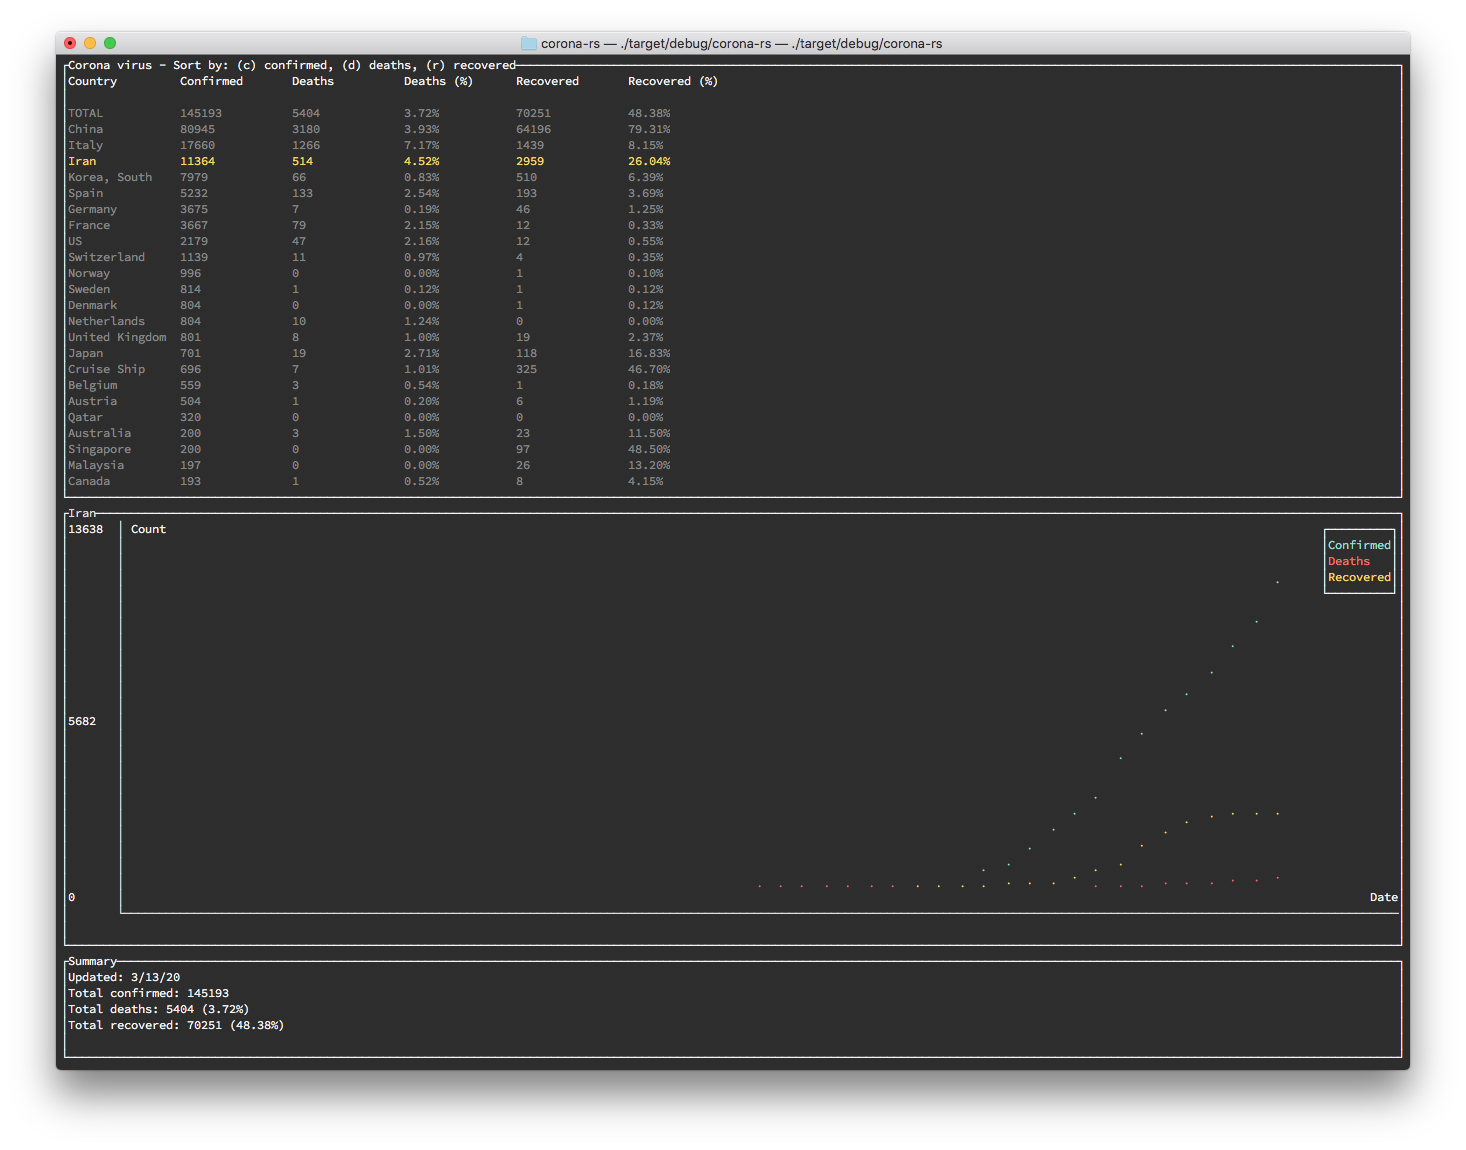
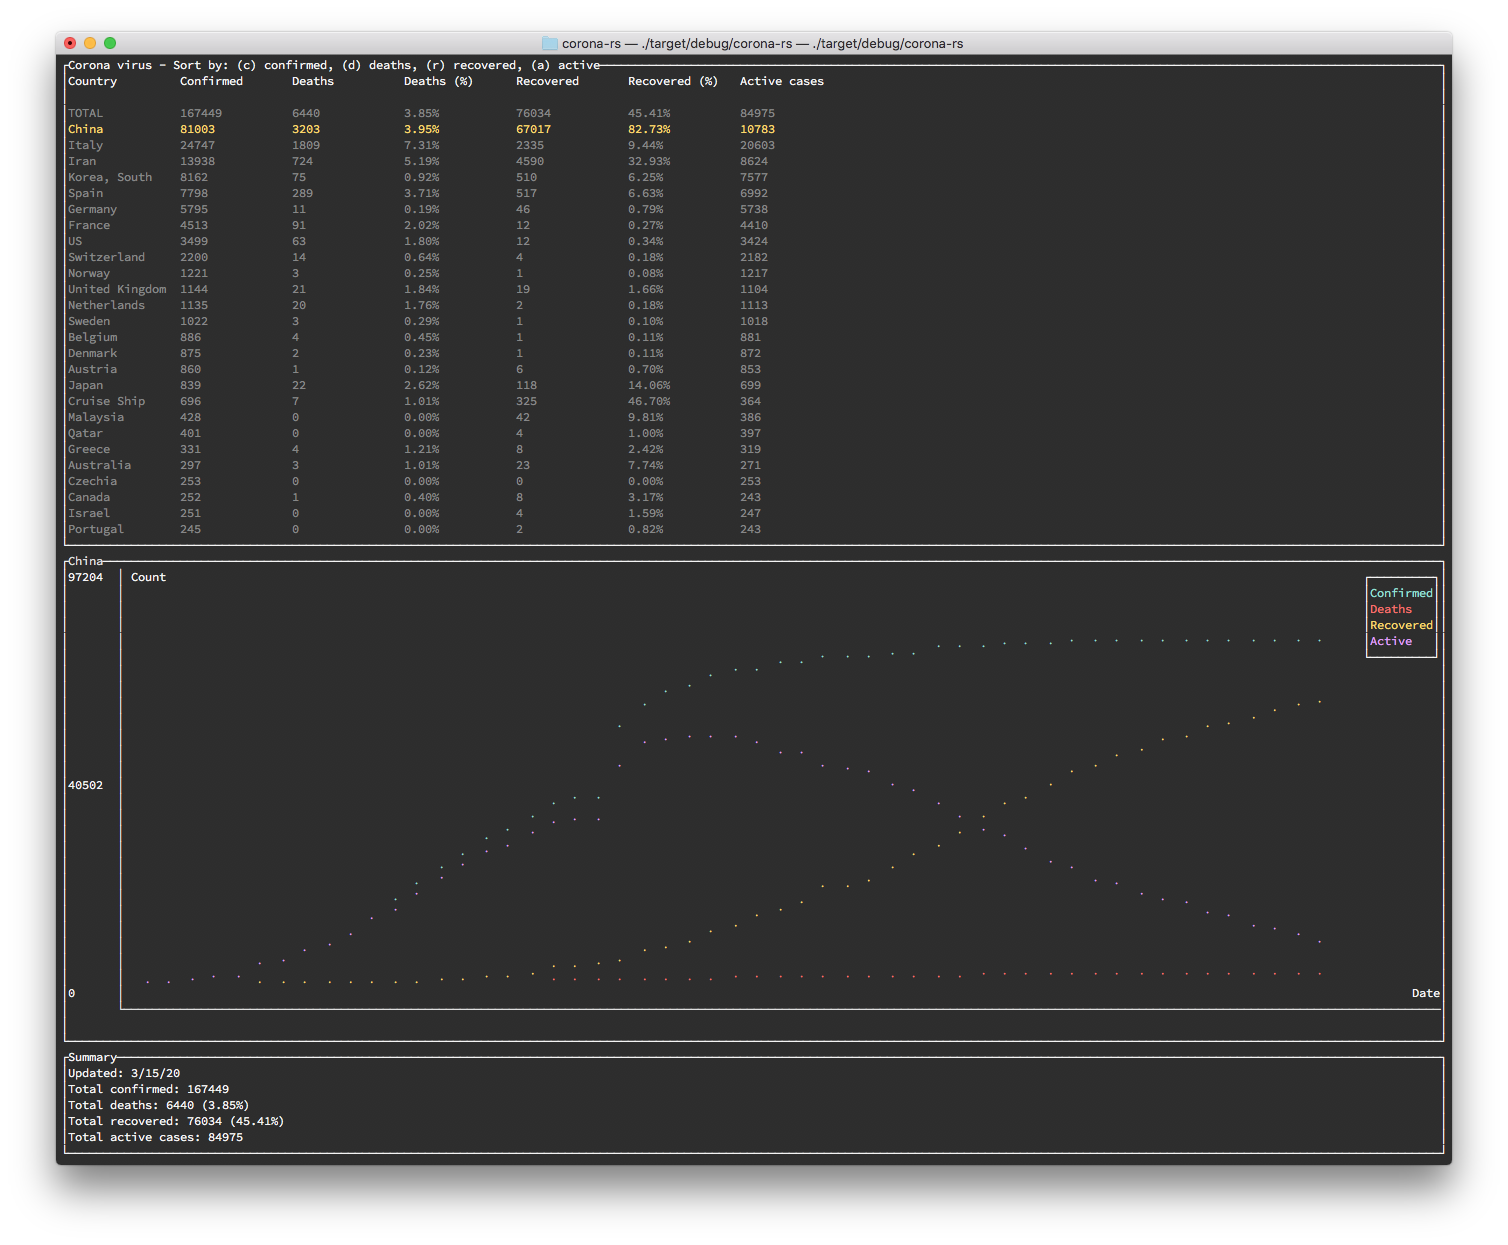
Add active cases

Changed region(s): [[0.0307, 0.0304, 0.9823, 0.9435]]

diff --git a/src/main.rs b/src/main.rs
@@ -27,6 +27,7 @@ enum DataType {
     Confirmed,
     Deaths,
     Recovered,
+    Active,
 }
 
 static CONFIRMED_URL: &str = "https://raw.githubusercontent.com/CSSEGISandData/COVID-19/master/csse_covid_19_data/csse_covid_19_time_series/time_series_19-covid-Confirmed.csv";
@@ -40,9 +41,11 @@ struct Country {
     confirmed: u32,
     deaths: u32,
     recovered: u32,
+    active: u32,
     confirmed_map: Vec<u32>,
     deaths_map: Vec<u32>,
     recovered_map: Vec<u32>,
+    active_map: Vec<u32>,
     headers: Vec<String>,
 }
 
@@ -59,11 +62,11 @@ impl App {
 }
 
 impl Country {
-    fn new(country: String, confirmed: u32, deaths: u32, recovered: u32,
-           confirmed_map: Vec<u32>, deaths_map: Vec<u32>, recovered_map: Vec<u32>,
+    fn new(country: String, confirmed: u32, deaths: u32, recovered: u32, active: u32,
+           confirmed_map: Vec<u32>, deaths_map: Vec<u32>, recovered_map: Vec<u32>, active_map: Vec<u32>,
            headers: Vec<String>) -> Country {
         Country {
-            country, confirmed, deaths, recovered, confirmed_map, deaths_map, recovered_map, headers
+            country, confirmed, deaths, recovered, active, confirmed_map, deaths_map, recovered_map, active_map, headers
         }
     }
 
@@ -74,7 +77,8 @@ impl Country {
             self.deaths.to_string(),
             format!("{:.2}%", get_percentage(self.deaths, self.confirmed)),
             self.recovered.to_string(),
-            format!("{:.2}%", get_percentage(self.recovered, self.confirmed))
+            format!("{:.2}%", get_percentage(self.recovered, self.confirmed)),
+            self.active.to_string()
         ]
     }
 }
@@ -133,6 +137,7 @@ fn get_results<R: Read>(reader: &mut csv::Reader<R>, countries_map: &mut HashMap
         let mut confirmed_list: Vec<u32> = Vec::new();
         let mut deaths_list: Vec<u32> = Vec::new();
         let mut recovered_list: Vec<u32> = Vec::new();
+        let mut active_list: Vec<u32> = Vec::new();
 
         for i in 4..header_count {
             let value: u32 = record[i].parse().unwrap();
@@ -140,6 +145,7 @@ fn get_results<R: Read>(reader: &mut csv::Reader<R>, countries_map: &mut HashMap
             if data_type == DataType::Confirmed {
                 confirmed = value;
                 confirmed_list.push(value);
+                active_list.push(value);
             } else if data_type == DataType::Deaths {
                 deaths = value;
                 deaths_list.push(value);
@@ -150,38 +156,57 @@ fn get_results<R: Read>(reader: &mut csv::Reader<R>, countries_map: &mut HashMap
         }
 
         if countries_map.contains_key(country) {
-            let old_value = countries_map.get(country).unwrap();
-            confirmed += old_value.confirmed;
-            deaths += old_value.deaths;
-            recovered += old_value.recovered;
+            let old = countries_map.get(country).unwrap();
+            confirmed += old.confirmed;
+            deaths += old.deaths;
+            recovered += old.recovered;
 
             // Add to existing values
             if data_type == DataType::Confirmed {
-                deaths_list = old_value.deaths_map.to_vec();
-                recovered_list = old_value.recovered_map.to_vec();
-                sum_vectors(&old_value.confirmed_map, &mut confirmed_list);
+                deaths_list = old.deaths_map.to_vec();
+                recovered_list = old.recovered_map.to_vec();
+                sum_vectors(&old.confirmed_map, &mut confirmed_list);
+                sum_vectors(&old.confirmed_map, &mut active_list);
             } else if data_type == DataType::Deaths {
-                confirmed_list = old_value.confirmed_map.to_vec();
-                recovered_list = old_value.recovered_map.to_vec();
+                confirmed_list = old.confirmed_map.to_vec();
+                recovered_list = old.recovered_map.to_vec();
+                active_list = old.active_map.to_vec();
 
-                if old_value.deaths_map.len() > 0 {
-                    sum_vectors(&old_value.deaths_map, &mut deaths_list);
+                if old.deaths_map.len() > 0 {
+                    sum_vectors(&old.deaths_map, &mut deaths_list);
                 }
             } else if data_type == DataType::Recovered {
-                confirmed_list = old_value.confirmed_map.to_vec();
-                deaths_list = old_value.deaths_map.to_vec();
+                confirmed_list = old.confirmed_map.to_vec();
+                deaths_list = old.deaths_map.to_vec();
+                active_list = old.active_map.to_vec();
 
-                if old_value.recovered_map.len() > 0 {
-                    sum_vectors(&old_value.recovered_map, &mut recovered_list);
-                }    
+                if old.recovered_map.len() > 0 {
+                    sum_vectors(&old.recovered_map, &mut recovered_list);
+                }
             }
         }
 
         countries_map.insert(country.to_string(), Country::new(country.to_string(),
-                             confirmed, deaths, recovered, confirmed_list, deaths_list, recovered_list, Vec::new()));
+                             confirmed, deaths, recovered, 0, confirmed_list, deaths_list, recovered_list, active_list, Vec::new()));
     }
     
     Ok(())
+}
+
+// Calculates active cases
+fn add_active(countries_map: &mut HashMap<String, Country>) {
+    for (_c, mut country) in countries_map {
+        let mut deaths_iter = country.deaths_map.iter();
+        let mut recovered_iter = country.recovered_map.iter();
+
+        for i in country.active_map.iter_mut() {
+            let recovered = recovered_iter.next().unwrap();
+            let deaths = deaths_iter.next().unwrap();
+            *i -= *recovered + deaths;
+        }
+
+        country.active = *country.active_map.last().unwrap();
+    }
 }
 
 // Adds a "TOTAL" summary country to the HashMap that contains summed results
@@ -189,9 +214,11 @@ fn add_summary(countries_map: &mut HashMap<String, Country>, header_map: Vec<Str
     let mut total_confirmed: u32 = 0;
     let mut total_deaths: u32 = 0;
     let mut total_recovered: u32 = 0;
+    let mut total_active: u32 = 0;
     let mut total_confirmed_map: Vec<u32> = Vec::new();
     let mut total_deaths_map: Vec<u32> = Vec::new();
     let mut total_recovered_map: Vec<u32> = Vec::new();
+    let mut total_active_map: Vec<u32> = Vec::new();
     let mut list: Vec<_> = countries_map.iter().collect();
 
     list.sort_by(|a, b| b.1.confirmed.cmp(&a.1.confirmed));
@@ -199,6 +226,7 @@ fn add_summary(countries_map: &mut HashMap<String, Country>, header_map: Vec<Str
         total_confirmed += v.confirmed;
         total_deaths += v.deaths;
         total_recovered += v.recovered;
+        total_active += v.active;
 
         // Init vectors if needed
         if total_confirmed_map.len() == 0 {
@@ -213,14 +241,19 @@ fn add_summary(countries_map: &mut HashMap<String, Country>, header_map: Vec<Str
             total_recovered_map = vec![0; v.recovered_map.len()];
         }
 
+        if total_active_map.len() == 0 {
+            total_active_map = vec![0; v.active_map.len()];
+        }
+
         sum_vectors(&v.confirmed_map, &mut total_confirmed_map);
         sum_vectors(&v.deaths_map, &mut total_deaths_map);
         sum_vectors(&v.recovered_map, &mut total_recovered_map);
+        sum_vectors(&v.active_map, &mut total_active_map);
     }
 
     countries_map.insert("TOTAL".to_string(), Country::new("TOTAL".to_string(),
-                         total_confirmed, total_deaths, total_recovered,
-                         total_confirmed_map, total_deaths_map, total_recovered_map, header_map));
+                         total_confirmed, total_deaths, total_recovered, total_active,
+                         total_confirmed_map, total_deaths_map, total_recovered_map, total_active_map, header_map));
 }
 
 fn get_data() -> Result<HashMap<String, Country>, csv::Error> {
@@ -238,6 +271,7 @@ fn get_data() -> Result<HashMap<String, Country>, csv::Error> {
     get_results(&mut reader_conf, &mut countries_map, header_count, DataType::Confirmed).unwrap();
     get_results(&mut reader_deaths, &mut countries_map, header_count, DataType::Deaths).unwrap();
     get_results(&mut reader_recov, &mut countries_map, header_count, DataType::Recovered).unwrap();
+    add_active(&mut countries_map);
     add_summary(&mut countries_map, header_map);
 
     Ok(countries_map)
@@ -251,6 +285,7 @@ fn get_table_columns(countries_map: &HashMap<String, Country>, sorty_by: DataTyp
         DataType::Confirmed => columns.sort_by(|a, b| b.1.confirmed.cmp(&a.1.confirmed)),
         DataType::Deaths => columns.sort_by(|a, b| b.1.deaths.cmp(&a.1.deaths)),
         DataType::Recovered => columns.sort_by(|a, b| b.1.recovered.cmp(&a.1.recovered)),
+        DataType::Active => columns.sort_by(|a, b| b.1.active.cmp(&a.1.active)),
     }
 
     for (_c, v) in &columns {
@@ -260,15 +295,17 @@ fn get_table_columns(countries_map: &HashMap<String, Country>, sorty_by: DataTyp
     table
 }
 
-fn get_chart_from_country(countries_map: &HashMap<String, Country>, country: String) -> (Vec<(f64, f64)>, Vec<(f64, f64)>, Vec<(f64, f64)>) {
+fn get_chart_from_country(countries_map: &HashMap<String, Country>, country: String) -> (Vec<(f64, f64)>, Vec<(f64, f64)>, Vec<(f64, f64)>, Vec<(f64, f64)>) {
     let selected_country = &countries_map.get(&country).unwrap();
     let confirmed_data = &selected_country.confirmed_map;
     let deaths_data = &selected_country.deaths_map;
     let recovered_data = &selected_country.recovered_map;
+    let active_data = &selected_country.active_map;
 
     let mut confirmed_final: Vec<(f64, f64)> = Vec::new();
     let mut deaths_final: Vec<(f64, f64)> = Vec::new();
     let mut recovered_final: Vec<(f64, f64)> = Vec::new();
+    let mut active_final: Vec<(f64, f64)> = Vec::new();
 
     for (i, x) in confirmed_data.iter().enumerate() {
         confirmed_final.push((i as f64, *x as f64));
@@ -282,16 +319,21 @@ fn get_chart_from_country(countries_map: &HashMap<String, Country>, country: Str
         recovered_final.push((i as f64, *x as f64));
     }
 
-    (confirmed_final, deaths_final, recovered_final)
+    for (i, x) in active_data.iter().enumerate() {
+        active_final.push((i as f64, *x as f64));
+    }
+
+    (confirmed_final, deaths_final, recovered_final, active_final)
 }
 
 fn update_data(countries_map: &HashMap<String, Country>, current_table: &Vec<Vec<String>>, selected: usize, 
-          confirmed_data: &mut Vec<(f64, f64)>, deaths_data: &mut Vec<(f64, f64)>, recovered_data: &mut Vec<(f64, f64)>) -> String {
+          confirmed_data: &mut Vec<(f64, f64)>, deaths_data: &mut Vec<(f64, f64)>, recovered_data: &mut Vec<(f64, f64)>, active_data: &mut Vec<(f64, f64)>) -> String {
     let selected_country = current_table.get(selected).unwrap().first().unwrap().to_string();
-    let (confirmed_upd, deaths_upd, recovered_upd) = get_chart_from_country(&countries_map, selected_country.to_string());
+    let (confirmed_upd, deaths_upd, recovered_upd, active_upd) = get_chart_from_country(&countries_map, selected_country.to_string());
     *confirmed_data = confirmed_upd;
     *deaths_data = deaths_upd;
     *recovered_data = recovered_upd;
+    *active_data = active_upd;
 
     selected_country
 }
@@ -306,9 +348,10 @@ fn main() -> Result<(), failure::Error> {
         Text::raw(format!("Total confirmed: {}\n", total.confirmed)),
         Text::raw(format!("Total deaths: {} ({:.2}%)\n", total.deaths, get_percentage(total.deaths, total.confirmed))),
         Text::raw(format!("Total recovered: {} ({:.2}%)\n", total.recovered, get_percentage(total.recovered, total.confirmed))),
+        Text::raw(format!("Total active cases: {}\n", total.active)),
     ];
 
-    let (mut confirmed_data, mut deaths_data, mut recovered_data) = get_chart_from_country(&countries_map, "TOTAL".to_string());
+    let (mut confirmed_data, mut deaths_data, mut recovered_data, mut active_data) = get_chart_from_country(&countries_map, "TOTAL".to_string());
     let mut current_table = get_table_columns(&countries_map, DataType::Confirmed);
 
     let stdout = io::stdout().into_raw_mode()?;
@@ -326,7 +369,7 @@ fn main() -> Result<(), failure::Error> {
         terminal.draw(|mut f| {
             let selected_style = Style::default().fg(Color::Yellow).modifier(Modifier::BOLD);
             let normal_style = Style::default().fg(Color::White);
-            let header = ["Country", "Confirmed", "Deaths", "Deaths (%)", "Recovered", "Recovered (%)"];
+            let header = ["Country", "Confirmed", "Deaths", "Deaths (%)", "Recovered", "Recovered (%)", "Active cases"];
 
             let rects = Layout::default()
                 .direction(Direction::Vertical)
@@ -360,7 +403,7 @@ fn main() -> Result<(), failure::Error> {
                 .collect::<Vec<tui::layout::Constraint>>();
 
             let mut table = Table::new(header.iter(), rows)
-                .block(Block::default().borders(Borders::ALL).title("Corona virus - Sort by: (c) confirmed, (d) deaths, (r) recovered"))
+                .block(Block::default().borders(Borders::ALL).title("Corona virus - Sort by: (c) confirmed, (d) deaths, (r) recovered, (a) active"))
                 .widths(&widths);
             f.render(&mut table, rects[0]);
 
@@ -380,6 +423,11 @@ fn main() -> Result<(), failure::Error> {
                     .marker(Marker::Braille)
                     .style(Style::default().fg(Color::Yellow))
                     .data(&recovered_data),
+                Dataset::default()
+                    .name("Active")
+                    .marker(Marker::Braille)
+                    .style(Style::default().fg(Color::Magenta))
+                    .data(&active_data),
             ];
 
             // Labels. Put some extra to the end for empty space (btw. There's too many labels, so tui-rs decided not to show them at all)
@@ -438,7 +486,7 @@ fn main() -> Result<(), failure::Error> {
                     if app.selected > current_table.len() - 1 {
                         app.selected = 0;
                     }
-                    selected_country = update_data(&countries_map, &current_table, app.selected, &mut confirmed_data, &mut deaths_data, &mut recovered_data);
+                    selected_country = update_data(&countries_map, &current_table, app.selected, &mut confirmed_data, &mut deaths_data, &mut recovered_data, &mut active_data);
                 }
                 Key::Up => {
                     if app.selected > 0 {
@@ -446,19 +494,23 @@ fn main() -> Result<(), failure::Error> {
                     } else {
                         app.selected = current_table.len() - 1;
                     }
-                    selected_country = update_data(&countries_map, &current_table, app.selected, &mut confirmed_data, &mut deaths_data, &mut recovered_data);
+                    selected_country = update_data(&countries_map, &current_table, app.selected, &mut confirmed_data, &mut deaths_data, &mut recovered_data, &mut active_data);
+                }
+                Key::Char('a') => {
+                    current_table = get_table_columns(&countries_map, DataType::Active);
+                    selected_country = update_data(&countries_map, &current_table, app.selected, &mut confirmed_data, &mut deaths_data, &mut recovered_data, &mut active_data);
                 }
                 Key::Char('c') => {
                     current_table = get_table_columns(&countries_map, DataType::Confirmed);
-                    selected_country = update_data(&countries_map, &current_table, app.selected, &mut confirmed_data, &mut deaths_data, &mut recovered_data);
+                    selected_country = update_data(&countries_map, &current_table, app.selected, &mut confirmed_data, &mut deaths_data, &mut recovered_data, &mut active_data);
                 }
                 Key::Char('d') => {
                     current_table = get_table_columns(&countries_map, DataType::Deaths);
-                    selected_country = update_data(&countries_map, &current_table, app.selected, &mut confirmed_data, &mut deaths_data, &mut recovered_data);
+                    selected_country = update_data(&countries_map, &current_table, app.selected, &mut confirmed_data, &mut deaths_data, &mut recovered_data, &mut active_data);
                 }
                 Key::Char('r') => {
                     current_table = get_table_columns(&countries_map, DataType::Recovered);
-                    selected_country = update_data(&countries_map, &current_table, app.selected, &mut confirmed_data, &mut deaths_data, &mut recovered_data);
+                    selected_country = update_data(&countries_map, &current_table, app.selected, &mut confirmed_data, &mut deaths_data, &mut recovered_data, &mut active_data);
                 }
                 _ => {}
             },

diff --git a/README.md b/README.md
@@ -7,5 +7,3 @@ The data source is [here](https://github.com/CSSEGISandData/COVID-19/tree/master
 Screenshots:
 
 ![Large terminal](https://raw.githubusercontent.com/varjolintu/corona-rs/master/ss_large.png)
-
-![Small terminal](https://raw.githubusercontent.com/varjolintu/corona-rs/master/ss_small.png)
